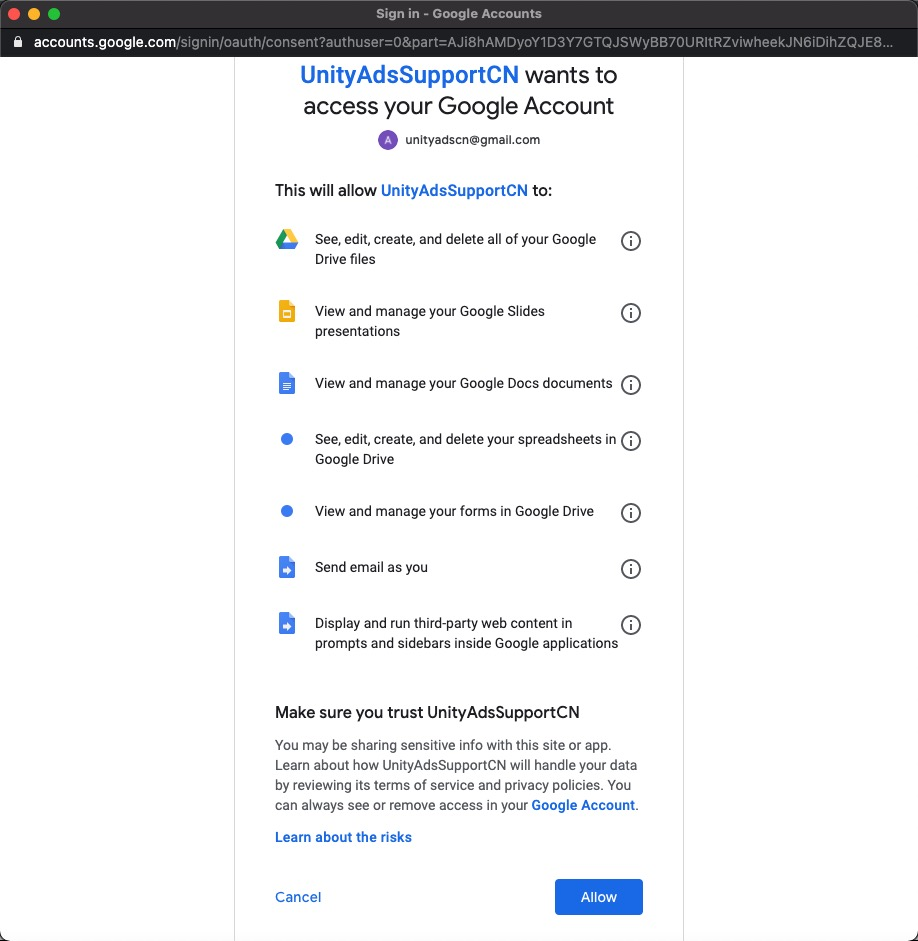
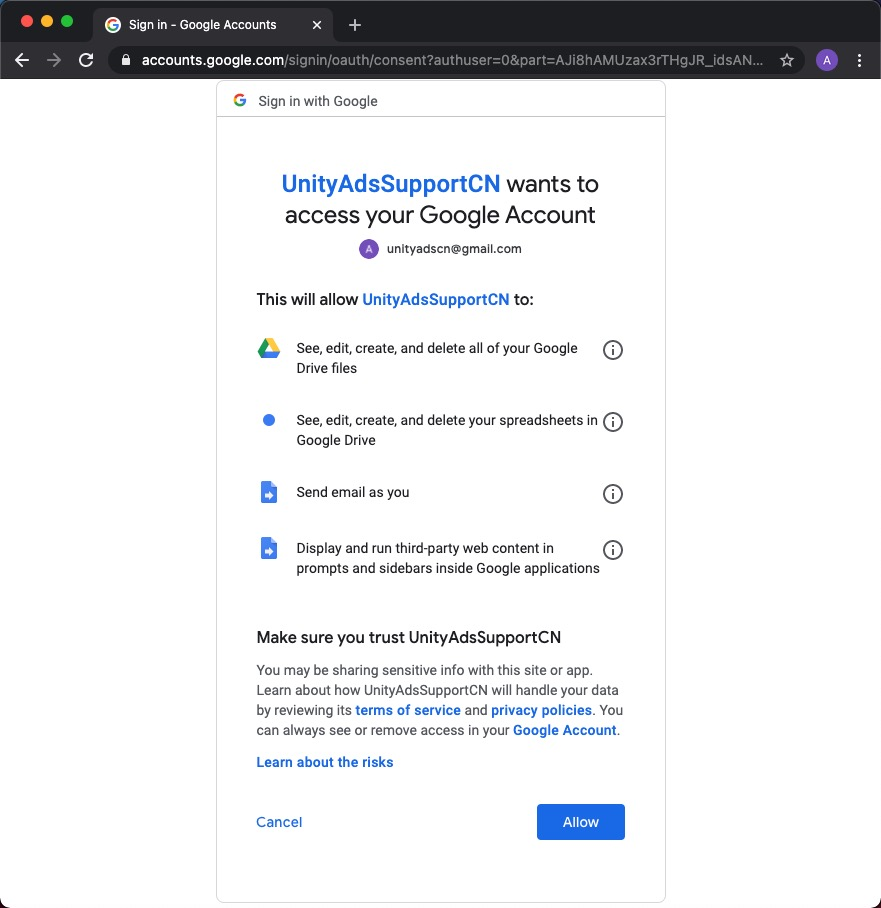
Site updated: 2020-11-26 01:58:17

diff --git a/2020/11/21/UnityAdsSupportCN-Privacy-Policy/index.html b/2020/11/21/UnityAdsSupportCN-Privacy-Policy/index.html
@@ -15,7 +15,7 @@
 <meta property="og:locale" content="en_US">
 <meta property="og:image" content="http://calliezhu.cn/2020/11/21/UnityAdsSupportCN-Privacy-Policy/oath.jpg">
 <meta property="article:published_time" content="2020-11-20T16:52:05.000Z">
-<meta property="article:modified_time" content="2020-11-22T01:44:58.734Z">
+<meta property="article:modified_time" content="2020-11-25T17:57:21.615Z">
 <meta property="article:author" content="Callie Zhu">
 <meta property="article:tag" content="Privacy Policy">
 <meta property="article:tag" content="UnityAdsSupportCN">
@@ -166,12 +166,9 @@
 <h2 id="UnityAdsSupportCN-Permissions-Explained"><a href="#UnityAdsSupportCN-Permissions-Explained" class="headerlink" title="UnityAdsSupportCN - Permissions Explained"></a>UnityAdsSupportCN - Permissions Explained</h2><p>The first time you install UnityAdsSupportCN, the add-on will require authorization and ask for access to some of your Google services. Here’s a summary of the permissions it requires and why does it require access to them.</p>
 <ul>
 <li><strong>See, edit, create and delete all of your Google Drive files</strong> - The add-on requires access to Google Drive to store the generated documents in specified folders. The add-on will never delete any file in Drive.</li>
-<li><strong>View and manage your Google Slides presentations</strong> - The add-on is supposed to be used for Google Sheets. The add-on requires no interaction to your Google Slides.</li>
-<li><strong>View and manage your Google Docs documents</strong> - The add-on is supposed to be used for Google Sheets. The add-on requires no interaction to your Google Docs.</li>
 <li><strong>See, edit, create and delete your spreadsheets in Google Drive</strong> - The add-on reads the rows from the selected spreadsheet for sending emails. The add-on will never delete any of your spreadsheets.</li>
-<li><strong>View and manage your forms in Google Drive</strong> - The add-on is supposed to be used for Google Sheets. The add-on requires no interaction to your forms.</li>
 <li><strong>Send email as you</strong> - The add-on includes Mail Merge that helps you send emails directly from your Gmail account with the selected cells in Google Sheet included as mail contents.</li>
-<li><strong>Display and run third-party web content in prompts and sidebars inside Google applications</strong> - The add-on settings can be managed via the sidebar available inside your Google Sheets.</li>
+<li><strong>Display and run third-party web content in prompts and sidebars inside Google applications</strong> - The add-on displays a custom form to let you upload any log files needed.</li>
 </ul>
 <h2 id="UnityAdsSupportCN-Privacy-Policy"><a href="#UnityAdsSupportCN-Privacy-Policy" class="headerlink" title="UnityAdsSupportCN - Privacy Policy"></a>UnityAdsSupportCN - Privacy Policy</h2><p>Please read our <a href="/2020/11/21/Privacy-Policy-for-calliezhu-cn/" title="Privacy Policy">Privacy Policy</a>.</p>
 <ul>
@@ -184,7 +181,7 @@
 </ul>
 <p>Google sign-in will authenticate your identity and provide you the option to share certain personal information with us such as your email address. </p>
 <p>If your personal information changes, or if you no longer desire our service, you may delete or deactivate it by uninstalling our Google add-on or by contacting us. We will respond to your request within 5 business days.</p>
-<p>If you have any questions or suggestions regarding our privacy policy, please contact us via email at <a href="mailto:&#120;&#105;&#97;&#x6f;&#113;&#105;&#98;&#117;&#x67;&#117;&#97;&#105;&#55;&#x37;&#x40;&#x67;&#109;&#x61;&#x69;&#108;&#x2e;&#99;&#111;&#109;">&#120;&#105;&#97;&#x6f;&#113;&#105;&#98;&#117;&#x67;&#117;&#97;&#105;&#55;&#x37;&#x40;&#x67;&#109;&#x61;&#x69;&#108;&#x2e;&#99;&#111;&#109;</a>.</p>
+<p>If you have any questions or suggestions regarding our privacy policy, please contact us via email at <a href="mailto:&#120;&#x69;&#x61;&#x6f;&#113;&#105;&#x62;&#x75;&#x67;&#x75;&#x61;&#105;&#55;&#x37;&#x40;&#103;&#109;&#x61;&#x69;&#x6c;&#46;&#99;&#111;&#109;">&#120;&#x69;&#x61;&#x6f;&#113;&#105;&#x62;&#x75;&#x67;&#x75;&#x61;&#105;&#55;&#x37;&#x40;&#103;&#109;&#x61;&#x69;&#x6c;&#46;&#99;&#111;&#109;</a>.</p>
 
   </div>
 </article>
